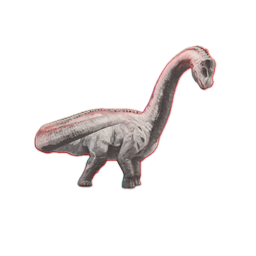
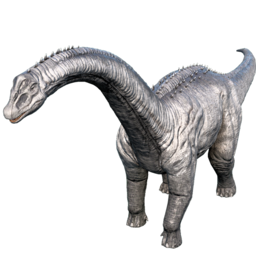
maj image

diff --git a/android/lib/services/dino_ocr_service.dart b/android/lib/services/dino_ocr_service.dart
@@ -120,7 +120,9 @@ class DinoOcrResult {
 
   Dino toDino({bool removeImprint = true}) {
     final ids = List<int>.from(colorIds);
-    while (ids.length < 6) ids.add(0);
+    while (ids.length < 6) {
+      ids.add(0);
+    }
 
     final hexes = ids.map((id) {
       if (id <= 0) return '#808080';
@@ -213,7 +215,9 @@ class DinoOcrResult {
       if (status!.toLowerCase().contains('tamed'))  tags.add('Tamed');
     }
     if ((mutationsMale   ?? 0) > 0 ||
-        (mutationsFemale ?? 0) > 0) tags.add('Mutant');
+        (mutationsFemale ?? 0) > 0) {
+      tags.add('Mutant');
+    }
     return tags;
   }
 
@@ -411,14 +415,14 @@ class DinoOcrService {
     // Ordre ARK Tek binoculars :
     // non-% → [0]HP [1]Stamina [2]Torpor [3]Poids [4]Food [5]Oxygen
     // %     → [0]Melee [1]Vitesse
-    if (nonPct.length > 0) hp      = _toStat(nonPct[0]);
+    if (nonPct.isNotEmpty) hp      = _toStat(nonPct[0]);
     if (nonPct.length > 1) stamina = _toStat(nonPct[1]);
     if (nonPct.length > 2) torpor  = _toStat(nonPct[2]);
     if (nonPct.length > 3) weight  = _toStat(nonPct[3]);
     if (nonPct.length > 4) food    = _toStat(nonPct[4]);
     if (nonPct.length > 5) oxygen  = _toStat(nonPct[5]);
 
-    if (pctStats.length > 0) melee = _toStat(pctStats[0]);
+    if (pctStats.isNotEmpty) melee = _toStat(pctStats[0]);
     if (pctStats.length > 1) speed = _toStat(pctStats[1]);
 
     colorIds = _extractColors(lines);
@@ -523,7 +527,9 @@ class DinoOcrService {
           lower.contains('deploy')   ||
           lower.contains('mutation') ||
           lower.contains('weight:')  ||
-          lower.contains('poids:'))  continue;
+          lower.contains('poids:')) {
+        continue;
+      }
 
       final mStat = statRe.firstMatch(line);
       if (mStat != null) {
@@ -544,14 +550,14 @@ class DinoOcrService {
     // %     → [0]Melee [1]Vitesse
     OcrStat? hp, stamina, oxygen, food, weight, melee, speed;
 
-    if (nonPctVals.length > 0) hp      = OcrStat(maxValue: nonPctVals[0]);
+    if (nonPctVals.isNotEmpty) hp      = OcrStat(maxValue: nonPctVals[0]);
     if (nonPctVals.length > 1) stamina = OcrStat(maxValue: nonPctVals[1]);
     // [2] = Water/Torpor → ignoré
     if (nonPctVals.length > 3) weight  = OcrStat(maxValue: nonPctVals[3]);
     if (nonPctVals.length > 4) food    = OcrStat(maxValue: nonPctVals[4]);
     if (nonPctVals.length > 5) oxygen  = OcrStat(maxValue: nonPctVals[5]);
 
-    if (pctVals.length > 0) melee = OcrStat(maxValue: pctVals[0], isPercent: true);
+    if (pctVals.isNotEmpty) melee = OcrStat(maxValue: pctVals[0], isPercent: true);
     if (pctVals.length > 1) speed = OcrStat(maxValue: pctVals[1], isPercent: true);
 
     colorIds = _extractColors(lines);
@@ -605,7 +611,9 @@ class DinoOcrService {
           lower.contains('poids')     ||
           lower.contains('imprint')   ||
           lower.contains('tamed')     ||
-          lower.contains('wild'))     continue;
+          lower.contains('wild')) {
+        continue;
+      }
 
       // Ignorer les lignes avec "/" (stats) ou "(X|Y|Z)" (points tek)
       if (line.contains('/')) continue;
@@ -699,10 +707,12 @@ class DinoOcrService {
     final parts = <String>[];
     for (final line in lines) {
       final lower = line.toLowerCase();
-      if (lower == 'tamed' || lower.contains('tamed') && line.length < 20)
+      if (lower == 'tamed' || lower.contains('tamed') && line.length < 20) {
         parts.add('Tamed');
-      if (lower == 'wild' || lower.contains('wild') && line.length < 20)
+      }
+      if (lower == 'wild' || lower.contains('wild') && line.length < 20) {
         parts.add('Wild');
+      }
       if (lower.contains('badass')) parts.add('Badass');
     }
     return parts.isEmpty ? null : parts.toSet().join(' ');
@@ -739,7 +749,9 @@ class DinoOcrService {
     for (final line in lines) {
       final lower = line.toLowerCase();
       if (!lower.contains('mutation') &&
-          !line.contains('♂') && !line.contains('♀')) continue;
+          !line.contains('♂') && !line.contains('♀')) {
+        continue;
+      }
 
       var m = RegExp(r'♂\s*([\d,]+)\s*♀\s*([\d,]+)').firstMatch(line);
       if (m != null) {

diff --git a/android/lib/screens/share_screen.dart b/android/lib/screens/share_screen.dart
@@ -1,6 +1,5 @@
 // lib/screens/share_screen.dart
 import 'dart:io';
-import 'dart:math';
 import 'dart:ui' as ui;
 import 'package:flutter/material.dart';
 import 'package:flutter/rendering.dart';
